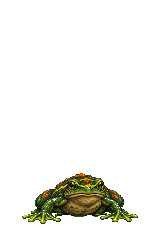
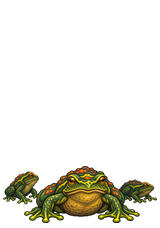
Ground the Sokal poison frog approach in WebGL

Changed region(s): [[0.0, 0.7061, 1.0, 0.9825]]

diff --git a/tools/encounter-art.ts b/tools/encounter-art.ts
@@ -10,16 +10,17 @@ const legacyAnchors = new Map<string, EncounterAnchor>([
   ["encounter:SPRIT2.DAX:0:1:0", { area: 20, x: 56, y: 32, width: 24, height: 65 }],
   ["encounter:SPRIT2.DAX:0:2:0", { area: 20, x: 56, y: 32, width: 24, height: 57 }],
 ]);
-export type EncounterPlacement = [x: number, y: number, key: string, width: number, height: number];
+export type EncounterPlacement = [x: number, y: number, key: string, width: number, height: number, webglYOffset?: number];
 
 export function encounterAnchor(key: string, configured?: EncounterAnchor) {
   const anchor = configured ?? legacyAnchors.get(key);
   const match = encounterKey.exec(key);
   if (!match || !anchor) return;
-  const { area, x, y, width, height, flatBackground } = anchor;
+  const { area, x, y, width, height, flatBackground, webglYOffset = 0 } = anchor;
   if ([area, x, y, width, height].every(Number.isInteger) && area >= 0 && area <= 255 &&
       (match[1] === undefined || Number(match[1]) === area) &&
       x >= 0 && y >= 0 && width > 0 && height > 0 && x + width <= 320 && y + height <= 200 &&
+      Number.isInteger(webglYOffset) && y + webglYOffset >= 0 && y + webglYOffset + height <= 200 &&
       (flatBackground === undefined || (Array.isArray(flatBackground) && flatBackground.length === 2 &&
         flatBackground.every(index => Number.isInteger(index) && index >= 0 && index < 16)))) return anchor;
 }
@@ -141,7 +142,9 @@ export function loadEncounterArt(placements: Record<string, EncounterAnchor>,
       } else {
         return;
       }
-      return [x, y, key, width, height];
+      const placement: EncounterPlacement = [x, y, key, width, height];
+      if (anchor.webglYOffset) placement.push(anchor.webglYOffset);
+      return placement;
     }
     if (unmatchedScope && cursor !== undefined) {
       traceUnmatchedScope?.(unmatchedScope.key, unmatchedScope.anchor, cursor, caller);

diff --git a/tools/play.js b/tools/play.js
@@ -1080,6 +1080,7 @@ async function showScreen() {
       if (aimMenu && highlighted) tile.classList.add("combat-aimed");
       if (perspective && id === view.encounter?.[2]) {
         const scale = 120 / 88;
+        if (streetCanvas) y += view.encounter[5] ?? 0;
         x = 8 + (x - 24) * scale;
         y = 8 + (y - 24) * scale;
         width = (width ?? 8) * scale;

diff --git a/src/lib/assets.ts b/src/lib/assets.ts
@@ -32,6 +32,7 @@ export interface EncounterAnchor {
   y: number;
   width: number;
   height: number;
+  webglYOffset?: number;
   flatBackground?: [number, number];
 }
 
